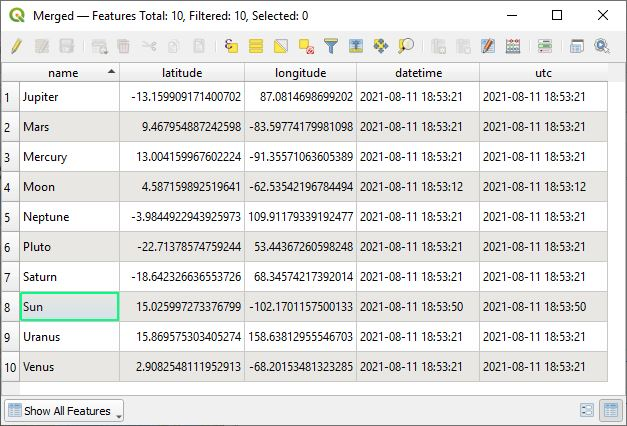
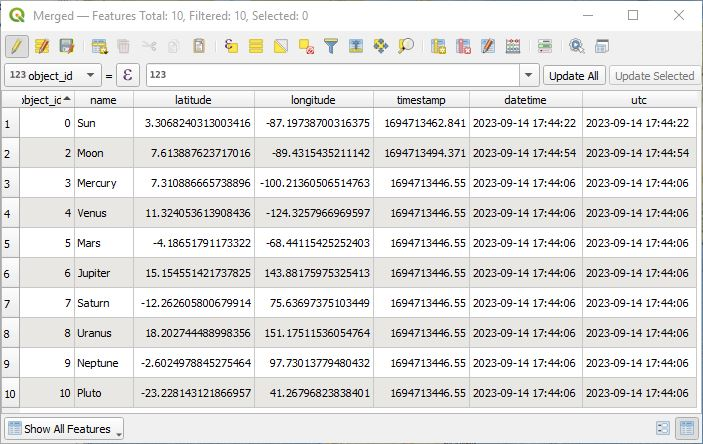
update documentation

diff --git a/index.html b/index.html
@@ -45,16 +45,6 @@ code {
 <p>You do not need to be a system administrator to be able to install these libraries. If these libraries are not installed then the functionality will be limited to the following two capabilities.</p>
 <div style="text-align:center"><img src="doc/menu_limited.jpg" alt="Plugin menu"></div>
 
-<h2>Field Calculator Expressions</h2>
-<p>The following expressions are available in the field calculator. Note that the expressions require the Skyfield library.</p>
-<ul>
-<li><strong><em>esm_local_datetime()</em></strong> - Returns the current date and time as a python datetime object with the local computer's timezone settings.</li>
-<li><strong><em>esm_local_qdatetime()</em></strong> - Returns the current date and time as a standard QGIS QDateTime object with the local computer's timezone settings. </li>
-<li><strong><em>esm_moon_phase()</em></strong> - Given a date and time, return the moon's phase in degrees where 0° is the New Noon, 90° is First Quarter, 180° is Full Moon, and 270° is Last Quarter.</li>
-<li><strong><em>esm_moon_zenith()</em></strong> - Given a date and time, return the EPSG:4326 coordinate point where the moon is directly overhead. </li>
-<li><strong><em>esm_sun_moon_info()</em></strong> - Given a date and time, latitude and longitude in EPSG:4326, output format type, and optional timezone of the date and time object, it returns a python dictionary or JSON string of solar and lunar information.</li>
-<li><strong><em>esm_sun_zenith()</em></strong> - Given a date and time, return the EPSG:4326 coordinate point where the sun is directly overhead.</li>
-</ul>
 <h2>Tools Overview</h2>
 <p>These are the tools provided by the Earth, Sun, Moon, and Planets Plugin:</p>
 <ul>
@@ -64,6 +54,16 @@ code {
 <li><img src="icons/venus.png" width=24 height=24 alt="Planetary positions directly overhead"> <strong><em>Planetary positions directly overhead</em></strong> - This shows the location of the planets where they are directly overhead for a particular date and time.</li>
 <li><img src="icons/ephem.svg" alt="Ephemeris information"> <strong><em>Ephemeris information</em></strong> - This provides information about the selected ephemeris file. This plugin includes limited ephemeris data for the dates 1990-2040. For dates outside this range other ephemeris files can be downloaded from the <a href="https://naif.jpl.nasa.gov/pub/naif/generic_kernels/spk/planets/">JPL Ephemeris page</a>. These can be installed from the <strong><em>Settings</em></strong> menu.</li>
 <li><img src="doc/settings.png" width=24 height=24 alt="Settings"> <strong><em>Settings</em></strong> - Plugin settings.</li>
+</ul>
+<h2>Field Calculator Expressions</h2>
+<p>The following expressions are available in the field calculator. Note that the expressions require the Skyfield library.</p>
+<ul>
+<li><strong><em>esm_local_datetime()</em></strong> - Returns the current date and time as a python datetime object with the local computer's timezone settings.</li>
+<li><strong><em>esm_local_qdatetime()</em></strong> - Returns the current date and time as a standard QGIS QDateTime object with the local computer's timezone settings. </li>
+<li><strong><em>esm_moon_phase()</em></strong> - Given a date and time, return the moon's phase in degrees where 0° is the New Noon, 90° is First Quarter, 180° is Full Moon, and 270° is Last Quarter.</li>
+<li><strong><em>esm_moon_zenith()</em></strong> - Given a date and time, return the EPSG:4326 coordinate point where the moon is directly overhead. </li>
+<li><strong><em>esm_sun_moon_info()</em></strong> - Given a date and time, latitude and longitude in EPSG:4326, output format type, and optional timezone of the date and time object, it returns a python dictionary or JSON string of solar and lunar information.</li>
+<li><strong><em>esm_sun_zenith()</em></strong> - Given a date and time, return the EPSG:4326 coordinate point where the sun is directly overhead.</li>
 </ul>
 <h2><img src="icons/daynight.png" width=24 height=24 alt="Day/Night terminator"> Day/Night terminator</h2>
 <p>This algorithm creates vector layers for the position of the sun directly overhead, day/night terminator line, and polygon layers associated with sunrise/sunset, civil twilight, nautical twilight and astronomical twilight. This is the associated dialog box.</p>
@@ -88,16 +88,19 @@ code {
 
 <p>The attribute tables give the name of the feature, its computer date and time, and the UTC string of the date and time.</p>
 <h2><img src="icons/sun_icon.svg" alt="Sun position directly overhead"> Sun position directly overhead</h2>
-<p>This is the dialog for the algorithm to calculate the sun directly overhead.</p>
+<p>This shows the dialog for the algorithm to calculate the sun directly overhead. If the Skyfield library is installed then it uses the highly accurate position algorithms of the library; otherwise, it uses a spherical earth model. The time zone of the date and time is based on the time zone of the computer you are running QGIS on. Internally, the dates and times are converted to UTC.</p>
 <div style="text-align:center"><img src="doc/sunalg.jpg" alt="Sun position directly overhead"></div>
 
-<p>The moon and planets are the same. This shows what this algorithm produces when this algorithm is run.</p>
+<p>If <strong><em>Advanced Paramters</em></strong> is expanded and <strong><em>Create sun time series</em></strong> is checked, then a series of sun observations is created starting from the date and time specified with each successive date and time incremented using <strong><em>Time increment between observations</em></strong> until the <strong><em>Total duration for sun positions</em></strong> is reached. Be carefult that the time increment is not to small for the duration desired. There is the potential to create a huge number of sun date &amp; time points. The time increment and total duration is in the form of DD:HH:MM:SS where DD represents days, HH hours, MM minutes, and SS seconds. You don't need to have all the ending times, but you need all the beginning ones. For an example you could do something like <strong>1:26.5</strong> representing 1 day and 26.5 hours which is really 2 days and 2.5 hours. Note that the days, hours, minutes and seconds are not constrained in their size. The time series can be animated with the QGIS time controller or with the QTDC plugin. Here is an example of the resulting image using the default settings.</p>
+<div style="text-align:center"><img src="doc/sun_series.jpg" alt="Sun positions overhead"></div>
+
+<p>This shows what this algorithm produces when this algorithm is run for both the sun and moon not using a time series.</p>
 <div style="text-align:center"><img src="doc/sunmoonmap.jpg" alt="Sun moon map"></div>
 
-<p>This shows the locations of the sun, moon, and planets.</p>
+<p>The planets algorithm currently does not have the option for a time series. This shows the results of running the alogirthms to locate the sun, moon, and planets for a certain date and time.</p>
 <div style="text-align:center"><img src="doc/sunmoonplanets.jpg" alt="Sun moon planets"></div>
 
-<p>The attribute table contains the name of the object, its coordinate where it is directly overhead, and the date and time both in computer time and UTC. This is the attribute table with all three combined together.</p>
+<p>The attribute table contains the object id, name of the object, its coordinate where it is directly overhead, and the date and time as a time stamp and computer time and UTC date, time strings. This is the attribute table with all three combined together.</p>
 <div style="text-align:center"><img src="doc/attributes.jpg" alt="Attributes"></div>
 
 <h2><img src="icons/info.svg" alt="Solar/lunar information"> Solar/lunar information</h2>

diff --git a/readme.md b/readme.md
@@ -11,17 +11,6 @@ You do not need to be a system administrator to be able to install these librari
 
 <div style="text-align:center"><img src="doc/menu_limited.jpg" alt="Plugin menu"></div>
 
-## Field Calculator Expressions
-
-The following expressions are available in the field calculator. Note that the expressions require the Skyfield library.
-
-* ***esm_local_datetime()*** - Returns the current date and time as a python datetime object with the local computer's timezone settings.
-* ***esm_local_qdatetime()*** - Returns the current date and time as a standard QGIS QDateTime object with the local computer's timezone settings. 
-* ***esm_moon_phase()*** - Given a date and time, return the moon's phase in degrees where 0° is the New Noon, 90° is First Quarter, 180° is Full Moon, and 270° is Last Quarter.
-* ***esm_moon_zenith()*** - Given a date and time, return the EPSG:4326 coordinate point where the moon is directly overhead. 
-* ***esm_sun_moon_info()*** - Given a date and time, latitude and longitude in EPSG:4326, output format type, and optional timezone of the date and time object, it returns a python dictionary or JSON string of solar and lunar information.
-* ***esm_sun_zenith()*** - Given a date and time, return the EPSG:4326 coordinate point where the sun is directly overhead.
-
 ## Tools Overview
 
 These are the tools provided by the Earth, Sun, Moon, and Planets Plugin:
@@ -32,6 +21,17 @@ These are the tools provided by the Earth, Sun, Moon, and Planets Plugin:
 * <img src="icons/venus.png" width=24 height=24 alt="Planetary positions directly overhead"> ***Planetary positions directly overhead*** - This shows the location of the planets where they are directly overhead for a particular date and time.
 * <img src="icons/ephem.svg" alt="Ephemeris information"> ***Ephemeris information*** - This provides information about the selected ephemeris file. This plugin includes limited ephemeris data for the dates 1990-2040. For dates outside this range other ephemeris files can be downloaded from the <a href="https://naif.jpl.nasa.gov/pub/naif/generic_kernels/spk/planets/">JPL Ephemeris page</a>. These can be installed from the ***Settings*** menu.
 * <img src="doc/settings.png" width=24 height=24 alt="Settings"> ***Settings*** - Plugin settings.
+
+## Field Calculator Expressions
+
+The following expressions are available in the field calculator. Note that the expressions require the Skyfield library.
+
+* ***esm_local_datetime()*** - Returns the current date and time as a python datetime object with the local computer's timezone settings.
+* ***esm_local_qdatetime()*** - Returns the current date and time as a standard QGIS QDateTime object with the local computer's timezone settings. 
+* ***esm_moon_phase()*** - Given a date and time, return the moon's phase in degrees where 0° is the New Noon, 90° is First Quarter, 180° is Full Moon, and 270° is Last Quarter.
+* ***esm_moon_zenith()*** - Given a date and time, return the EPSG:4326 coordinate point where the moon is directly overhead. 
+* ***esm_sun_moon_info()*** - Given a date and time, latitude and longitude in EPSG:4326, output format type, and optional timezone of the date and time object, it returns a python dictionary or JSON string of solar and lunar information.
+* ***esm_sun_zenith()*** - Given a date and time, return the EPSG:4326 coordinate point where the sun is directly overhead.
 
 ## <img src="icons/daynight.png" width=24 height=24 alt="Day/Night terminator"> Day/Night terminator
 
@@ -61,19 +61,24 @@ The attribute tables give the name of the feature, its computer date and time, a
 
 ## <img src="icons/sun_icon.svg" alt="Sun position directly overhead"> Sun position directly overhead
 
-This is the dialog for the algorithm to calculate the sun directly overhead.
+This shows the dialog for the algorithm to calculate the sun directly overhead. If the Skyfield library is installed then it uses the highly accurate position algorithms of the library; otherwise, it uses a spherical earth model. The time zone of the date and time is based on the time zone of the computer you are running QGIS on. Internally, the dates and times are converted to UTC.
 
 <div style="text-align:center"><img src="doc/sunalg.jpg" alt="Sun position directly overhead"></div>
 
-The moon and planets are the same. This shows what this algorithm produces when this algorithm is run.
+If ***Advanced Paramters*** is expanded and ***Create sun time series*** is checked, then a series of sun observations is created starting from the date and time specified with each successive date and time incremented using ***Time increment between observations*** until the ***Total duration for sun positions*** is reached. Be carefult that the time increment is not to small for the duration desired. There is the potential to create a huge number of sun date &amp; time points. The time increment and total duration is in the form of DD:HH:MM:SS where DD represents days, HH hours, MM minutes, and SS seconds. You don't need to have all the ending times, but you need all the beginning ones. For an example you could do something like **1:26.5** representing 1 day and 26.5 hours which is really 2 days and 2.5 hours. Note that the days, hours, minutes and seconds are not constrained in their size. The time series can be animated with the QGIS time controller or with the QTDC plugin. Here is an example of the resulting image using the default settings.
+
+<div style="text-align:center"><img src="doc/sun_series.jpg" alt="Sun positions overhead"></div>
+
+
+This shows what this algorithm produces when this algorithm is run for both the sun and moon not using a time series.
 
 <div style="text-align:center"><img src="doc/sunmoonmap.jpg" alt="Sun moon map"></div>
 
-This shows the locations of the sun, moon, and planets.
+The planets algorithm currently does not have the option for a time series. This shows the results of running the alogirthms to locate the sun, moon, and planets for a certain date and time.
 
 <div style="text-align:center"><img src="doc/sunmoonplanets.jpg" alt="Sun moon planets"></div>
 
-The attribute table contains the name of the object, its coordinate where it is directly overhead, and the date and time both in computer time and UTC. This is the attribute table with all three combined together.
+The attribute table contains the object id, name of the object, its coordinate where it is directly overhead, and the date and time as a time stamp and computer time and UTC date, time strings. This is the attribute table with all three combined together.
 
 <div style="text-align:center"><img src="doc/attributes.jpg" alt="Attributes"></div>
 
